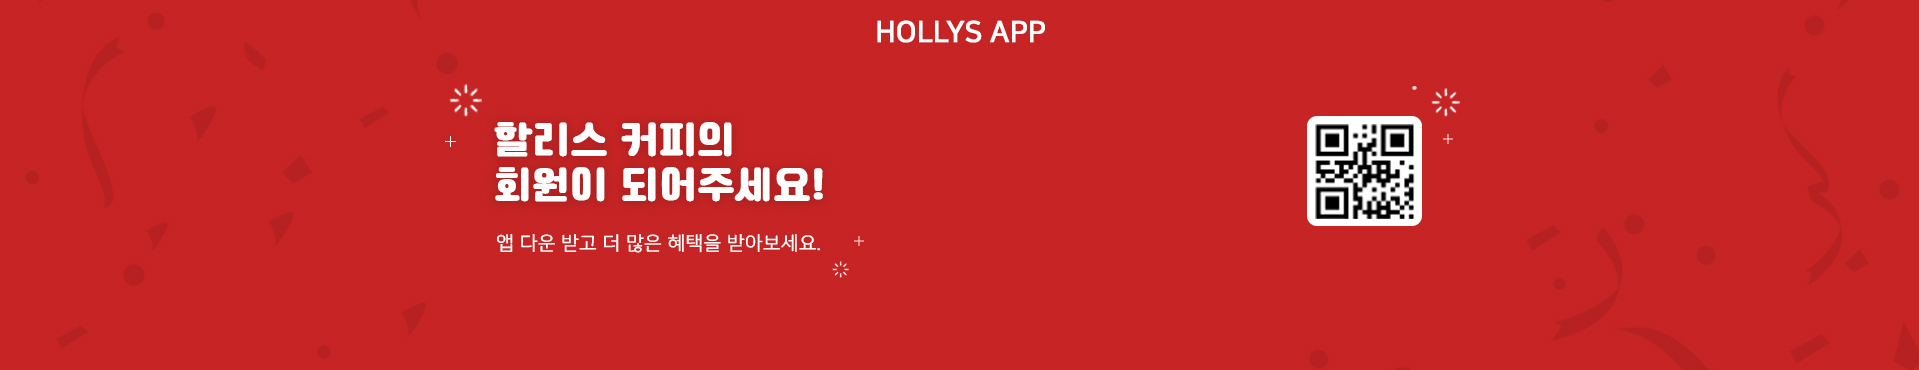
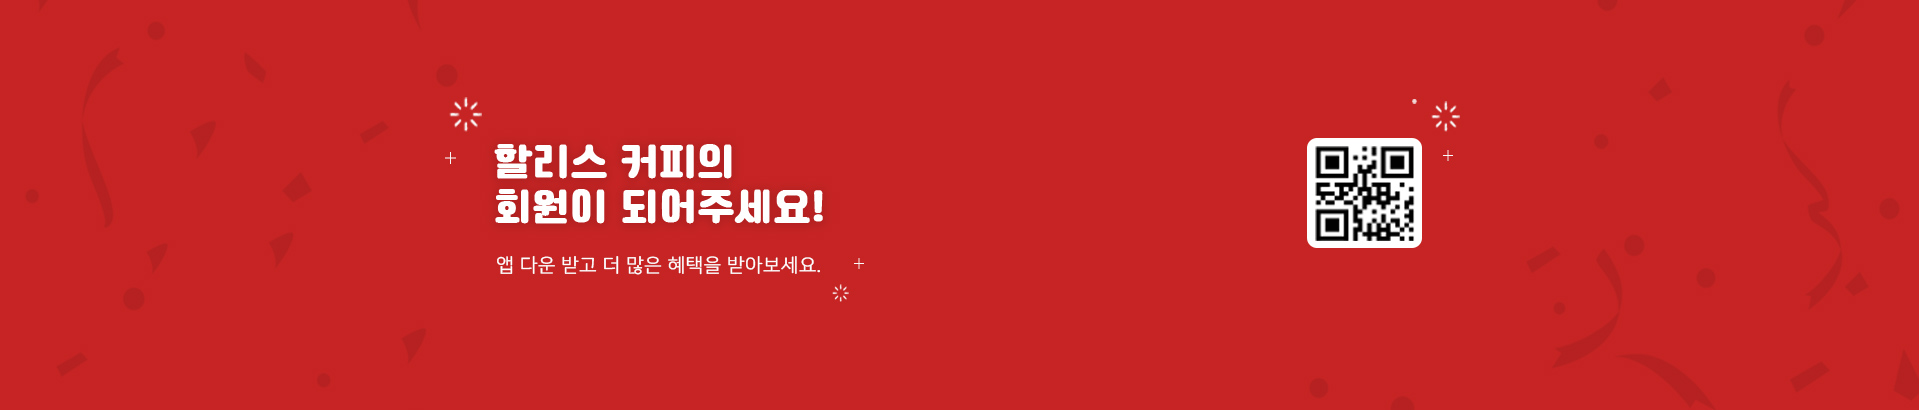
hollsy

diff --git a/css/style.css b/css/style.css
@@ -6,7 +6,9 @@
 body{background-image: url(../images/bg.png);}
 
 /* +++++++++++++++++++++++++++++++++ 픽스 +++++++++++++++++++++++++++++++++ */
-#chatbot{position: fixed; z-index: 99999; bottom: 30px; right: 120px;}
+#chatbot{position: fixed; z-index: 99999; bottom: 30px; right: 90px;
+        height: 60px; padding: 7px; margin: 0 auto 5px; text-align: center;
+        background: #fff; border-radius: 50px; box-shadow: 0 3px 10px 0 rgba(0,0,0,.15);}
 #popup{position: fixed; z-index: 99999; bottom: 30px; right: 280px; display: none;}
 
 /* +++++++++++++++++++++++++++++++++ 헤더 +++++++++++++++++++++++++++++++++ */
@@ -30,8 +32,8 @@ body{background-image: url(../images/bg.png);}
                             background: #000; position: absolute; left:0}
 
 #nav .nav_left{display: flex; flex-direction: row; flex-wrap: nowrap; justify-content: center;}
-#nav .nav_left .blue{color: blue;}
 #nav .nav_left > li{width: 110px; position: relative; text-align: center;}
+#nav .nav_left .blue{color: blue;}
 #nav .nav_left .margin_r{padding-right: 5px;}
 #nav .nav_left > li > a{width: 100%; font-size: 1.1rem; font-weight: bold; padding-bottom: 46px;}
 #nav .nav_left .border:hover{border-bottom: 2px solid #C51C1C; padding-bottom: 5px;}
@@ -92,12 +94,12 @@ body{background-image: url(../images/bg.png);}
 #section2 ul{display: flex; flex-direction: row; flex-wrap: nowrap; justify-content: space-evenly;}
 #sectino2 li img{width:100%;}
 #section2 .sec2_text{text-align: center; font-size: 1rem; font-weight: bold; margin-top: 15px;}
-#section2 .solid_up:hover{color:#C51C1C}
-#section2 .slick-slide img{margin: 18px;}
+#section2 .solid_up:hover{color: #C51C1C;}
 #section2 .slick-arrow {display: block; position: absolute; top: 50%; z-index: 999;}
 #section2 .slick-arrow.slick-prev {left: 28px; border: none; font-size: 0;
                                     width: 18px; height: 39px; background: none;
-                                    background-image: url(../images/main_bt3.png); background-repeat: no-repeat;}
+                                    background-image: url(../images/main_bt3.png); background-repeat: no-repeat;
+                                    }
 #section2 .slick-arrow.slick-next {right: 28px;  border: none; font-size: 0;
                                     width: 18px; height: 39px; background: none;
                                     background-image: url(../images/main_bt4.png); background-repeat: no-repeat;}

diff --git a/index.html b/index.html
@@ -23,7 +23,7 @@
     <!-- +++++++++++++++++++++++++++++++++ 헤더 +++++++++++++++++++++++++++++++++ -->
     <div id="wrap">
       <div id="chatbot">
-        <p><img src="./images/chatbot.png" alt="상담봇아이콘"></p>
+        <a href="#"><img src="./images/chatbot22.png" alt="상담봇아이콘"></a>
       </div>
 
       <div id="popup">
@@ -183,6 +183,7 @@
       </section>
 
       <section id="section3">
+          <h3>HOLLYS APP</h3>
           <p class="appbanner"><img src="./images/appbanner.jpg"><p>
           
           <div class="inner">

diff --git a/js/main.js b/js/main.js
@@ -1,12 +1,9 @@
 $(function(){
     $('.slide_img').slick({ //메인슬라이드
-      infinite: true,
-      slidesToShow : 1,
-      arrows : false, 
+      arrows : true, 
       dots: true,
-      autoplay: true,
-      autoplaySpeed : 2300,
-      pauseOnHover : true
+      slidesToShow : 1,
+      speed : 500
     });
 
     $(".newsbox_list").slick({ //소식 바
